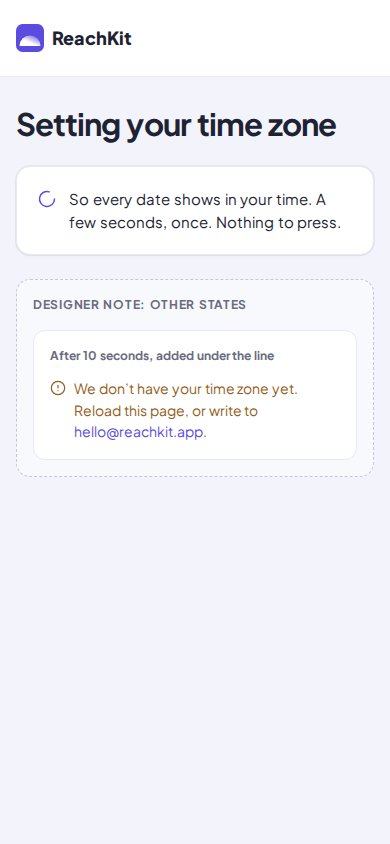
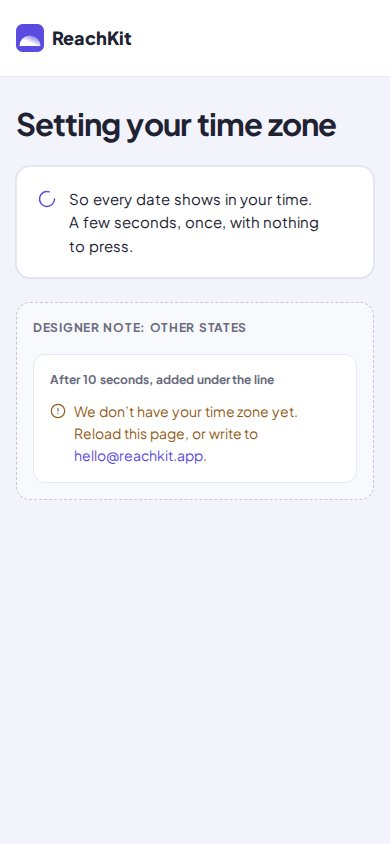
fix(app): the zone line is two sentences on the board and the screen (O6), and the WordPress line names the Publishing tab on its own

Changed region(s): [[0.0923, 0.3389, 0.7692, 0.5545], [0.1538, 0.2156, 0.8615, 0.3081]]

diff --git a/docs/design/boards/canvas/SetupZone.dc.html b/docs/design/boards/canvas/SetupZone.dc.html
@@ -182,7 +182,7 @@ main .dnote{padding:16px}
 <header style="background: #ffffff; border-bottom: 1px solid #e8e9f3; padding: 16px 16px"><a href="PubLanding.dc.html" style="display: flex; align-items: center; gap: 8px; color: #1e2233; font-weight: 800; font-size: 18px; text-decoration: none; min-height: 44px"><svg viewBox="0 0 64 64" style="width: 28px; height: 28px; flex: none" aria-hidden="true"><defs><linearGradient id="zbf" x1="0.15" y1="1" x2="0.95" y2="0.1"><stop offset="0.38" stop-color="#ffffff"></stop><stop offset="1" stop-color="#ffffff" stop-opacity="0.12"></stop></linearGradient><clipPath id="zbc"><rect width="64" height="64" rx="15"></rect></clipPath></defs><g clip-path="url(#zbc)"><rect width="64" height="64" fill="#5b4be0"></rect><path d="M8 50 A24 24 0 0 1 56 50 Z" fill="url(#zbf)"></path></g></svg>ReachKit</a></header>
 <main aria-labelledby="z-h" style="padding: 28px 16px; display: flex; flex-direction: column; gap: 24px">
   <h1 id="z-h" style="margin: 0; font-size: 31px; line-height: 1.2; font-weight: 700; letter-spacing: -0.03em">Setting your time zone</h1>
-  <div role="status" class="card" style="padding: 20px; display: flex; gap: 12px; align-items: flex-start"><svg class="ic" viewBox="0 0 24 24" fill="none" stroke="currentColor" style="width: 20px; height: 20px;color: #5b4be0; margin-top: 2px" aria-hidden="true"><path d="M21 12a9 9 0 1 1-6.219-8.56"/></svg><p style="margin: 0">So every date shows in your time. A few seconds, once. Nothing to press.</p></div>
+  <div role="status" class="card" style="padding: 20px; display: flex; gap: 12px; align-items: flex-start"><svg class="ic" viewBox="0 0 24 24" fill="none" stroke="currentColor" style="width: 20px; height: 20px;color: #5b4be0; margin-top: 2px" aria-hidden="true"><path d="M21 12a9 9 0 1 1-6.219-8.56"/></svg><p style="margin: 0">So every date shows in your time. A few seconds, once, with nothing to press.</p></div>
   <aside class="dnote note" aria-label="Designer note"><p class="dnl">Designer note: other states</p><div class="dgrid"><div class="st"><p class="sl">After 10 seconds, added under the line</p><p class="waitline"><svg class="ic" viewBox="0 0 24 24" fill="none" stroke="currentColor" style="width: 16px; height: 16px;" aria-hidden="true"><circle cx="12" cy="12" r="10"/><path d="M12 8v4M12 16h.01"/></svg><span>We don’t have your time zone yet. Reload this page, or write to <a href="#">hello@reachkit.app</a>.</span></p></div></div></aside>
 </main>
 </div>

diff --git a/src/lib/presentation/copy/keys/setup.ts b/src/lib/presentation/copy/keys/setup.ts
@@ -312,8 +312,7 @@ export const SETUP_COPY = Object.freeze({
   // and shipped under the owner ruling of 2026-09-16 (#759); the owner
   // corrects the wording.
   "setup.zone.head": ["Setting your time zone", { slots: {}, fixedBy: "board SetupZone · issue 1738" }],
-  "setup.zone.line": ["So every date shows in your time.", { slots: {}, fixedBy: "issue 753" }],
-  "setup.zone.once": ["A few seconds, once. Nothing to press.", { slots: {}, fixedBy: "board SetupZone v36 · issue 2270" }],
+  "setup.zone.line": ["So every date shows in your time. A few seconds, once, with nothing to press.", { slots: {}, fixedBy: "board SetupZone v36 · O6 · issue 2270" }],
   /** Shown once the browser has said nothing for ten seconds; the support address follows it as a link. */
   "setup.zone.slow": ["We don’t have your time zone yet. Reload this page, or write to", { slots: {}, fixedBy: "board SetupZone · issue 1738" }],
 
@@ -618,7 +617,7 @@ export const SETUP_COPY = Object.freeze({
   // The week after setup. No go-live hour: the address is not connected yet (Q11).
   "setup.connect.week.1": ["Every Monday we plan up to 7 pages, new or updated.", { slots: {}, fixedBy: "board Setup · issue 1738" }],
   "setup.connect.week.2": ["Each page goes live on its day, by itself.", { slots: {}, fixedBy: "board Setup · issue 1738" }],
-  "setup.wordpress.later": ["You’ll connect it in Settings › Publishing with your site address, username and an app password.", { slots: {}, fixedBy: "SPEC §5 · board Setup v36 · issue 2270" }],
+  "setup.wordpress.later": ["You’ll connect it in Settings › Publishing, with your site address, username and an app password.", { slots: {}, fixedBy: "SPEC §5 · board Setup v36 · issue 2270" }],
   "setup.connect.week.3": ["You can edit or stop any page first. You never have to.", { slots: {}, fixedBy: "board Setup · issue 1738" }],
   "setup.connect.week.4": ["Cancel or export in Settings at any time.", { slots: {}, fixedBy: "board Setup v36 · issue 2270" }],
 

diff --git a/src/app/(account)/setup/zone/ZoneScreen.tsx b/src/app/(account)/setup/zone/ZoneScreen.tsx
@@ -37,9 +37,7 @@ export function ZoneScreen(): React.JSX.Element {
             {/* The one spinner outside a pressed button: the screen itself is the wait (DESIGN › Busy and done).
                 The board's lucide arc, which still reads as a spinner when motion is reduced and it stands still. */}
             <LoaderCircle aria-hidden size={20} strokeWidth={1.75} className="mt-0.5 shrink-0 text-primary motion-safe:animate-spin" />
-            <p>
-              {copy("setup.zone.line")} {copy("setup.zone.once")}
-            </p>
+            <p>{copy("setup.zone.line")}</p>
           </div>
           <ZoneSlow line={copy("setup.zone.slow")} address={address} />
         </main>

diff --git a/tests/app/setup/connect-board.test.tsx b/tests/app/setup/connect-board.test.tsx
@@ -172,7 +172,7 @@ describe("the time-zone screen matches board SetupZone", () => {
     inOrder(textOf(await zone()), [
       "ReachKit",
       "Setting your time zone",
-      "So every date shows in your time. A few seconds, once. Nothing to press.",
+      "So every date shows in your time. A few seconds, once, with nothing to press.",
     ]);
     expect((await zone()).querySelector("button")).toBeNull();
     expect((await zone()).querySelector("h1")?.textContent).toBe("Setting your time zone");

diff --git a/tests/app/setup/connect-icons.test.tsx b/tests/app/setup/connect-icons.test.tsx
@@ -104,7 +104,7 @@ describe("the time-zone screen", () => {
     const card = root.querySelector('[data-testid="setup-zone"]')!;
     expect(icons(card)).toEqual(["loader-circle"]);
     expect(card.querySelector("svg.lucide-loader-circle")?.getAttribute("aria-hidden")).toBe("true");
-    expect(card.textContent).toBe(`${COPY["setup.zone.line"]} ${COPY["setup.zone.once"]}`);
+    expect(card.textContent).toBe(COPY["setup.zone.line"]);
     expect(root.querySelector("figure")).toBeNull();
   });
 

diff --git a/docs/spec/decisions/2026-11-02-2270.md b/docs/spec/decisions/2026-11-02-2270.md
@@ -2,17 +2,17 @@
 section: §5
 ---
 
-2026-11-02  **Setup is three short steps with the action always on screen, built to canvas v36** (owner, #2270: *"approved, build it prioritising efficiency and speed of delivery. i need this live asap to start selling"*). Boards Setup1, Setup2, Setup and SetupZone in `docs/design/boards/canvas/` are the v36 files. Each one is unchanged except that its designer-note box also carries `note`, so the parity check skips it. The specimen is Tallyroom, the software business, and its city is left empty because it sells online. These designer decisions are built as drawn:
+2026-11-02  **Setup is three short steps with the action always on screen, built to canvas v36** (owner, #2270: *"approved, build it prioritising efficiency and speed of delivery. i need this live asap to start selling"*). Boards Setup1, Setup2, Setup and SetupZone in `docs/design/boards/canvas/` are the v36 files. Each one is unchanged except that its designer-note box also carries `note`, so the parity check skips it, and SetupZone's line is two sentences, not three, on the board and the screen. Owner O6 (2026-10-31, #2145) allows at most two sentences per paragraph, and a board's count may only go down, so "A few seconds, once. Nothing to press." reads "A few seconds, once, with nothing to press." The specimen is Tallyroom, the software business, and its city is left empty because it sells online. These designer decisions are built as drawn:
 
 1. **Every step** has a white header band with the brand, the three steps drawn as bars over their one-word labels, and the pass's status line where one is running. The question is one reading column, with no side panel: "What happens next" and the blog preview are gone. The action sits in a bar pinned to the foot of the screen, Back on the left from step 2 on, with no line under it. "Step n of 3" is gone, because the bar shows it.
 2. **Site** keeps "About 10 minutes, once" on step 1 only. It cuts "What happens next", the cancel line, the place preview and the "The site your free report checked…" line. Its labels read "Where your buyers are" and "City or area you serve". The site's own mark (`SiteMark`, 36) stands beside its domain. It is the logo the scan kept, read with the profile setup already loads, or else the domain's first letter.
 3. **Details** has one line, "{domain} · {n} pages read", in place of the diagram, again with the site's mark. It cuts the step line's first sentence, the "read" and "optional" pills, "What happens next" and the cancel line. The four sections and "We never invent prices, people or reviews…" stay.
 4. **Connect is one screen, the third step** (orchestrator, 2026-11-02, on the ux review of #2301: the issue promises three short steps, and the board draws the picker and the record together). It holds the status line with its start ("Writing your first page · started 10:42 AM"), "Where should pages live?" as daisyUI radios, then for the hosted address the record to paste, "Do this later" and the week after. The record's Name row is the subdomain label field, so the founder still chooses it here (SPEC §5, 2026-09-12). Choosing WordPress replaces the record with what connecting it will ask for. The bar holds Back and the step's one primary. For the hosted address that is "I've added it, check now", which saves the step and then checks; "Do this later" saves it and goes into the app. For WordPress it is Continue. "Finish" is gone. This supersedes the 2026-09-20 ruling (#924) that the record is its own step after setup. `/setup/connect` stays as the way back to the record from Overview and Settings until the address is live. It also cuts the eyebrow ("One last thing · about 5 minutes"), the 7-day strip and the separate cancel line, which is now the fourth tick: "Cancel or export in Settings at any time." "Do this later" reads "We'll email you a reminder. Your first page waits for it." The WordPress option's line is "You create an app password for us." The DNS rows, the four "Show the steps" instructions and the application-password help are unchanged.
-5. **SetupZone** is the heading and one status card with the spinner: "So every date shows in your time. A few seconds, once. Nothing to press." The "Why it matters" figure is cut. The 10-second line is unchanged. The spinner is drawn as the board draws it (orchestrator, 2026-11-02). DESIGN › Busy and done (owner, #1196, E42) now names this card as the one place a spinner stands outside a pressed button, because the screen itself is the wait and has nothing to press. The owner may still reverse this.
+5. **SetupZone** is the heading and one status card with the spinner: "So every date shows in your time. A few seconds, once, with nothing to press." The "Why it matters" figure is cut. The 10-second line is unchanged. The spinner is drawn as the board draws it (orchestrator, 2026-11-02). DESIGN › Busy and done (owner, #1196, E42) now names this card as the one place a spinner stands outside a pressed button, because the screen itself is the wait and has nothing to press. The owner may still reverse this.
 
 Where the build differs from the board:
 
 1. **`/setup/connect`, the way back later, draws no picker, no Back and no status line.** Setup is finished by then, so there is no destination to change there (Settings › Publishing is where it changes), Back would land on `/app`, and the page reads no pass.
 2. **The site's mark is 36px**, as the issue states. The board draws 28px on Site and 24px on Details.
 3. **The week card's second line names no hour.** The board reads "Each page goes live at 4:00 PM on its day, by itself." At this step the address is not connected yet, so no go-live hour is shown (owner Q11, 2026-10-20, #1595). The line stays "Each page goes live on its day, by itself."
-4. **With WordPress chosen, the box says where it is connected.** "You'll connect it in Settings › Publishing with your site address, username and an app password.", with the application-password help kept exact under it. The board's note draws a connect form, but SPEC §5 connects WordPress later, so setup asks for none of it.
+4. **With WordPress chosen, the box says where it is connected.** "You'll connect it in Settings › Publishing, with your site address, username and an app password.", with the application-password help kept exact under it. The board's note draws a connect form, but SPEC §5 connects WordPress later, so setup asks for none of it.
